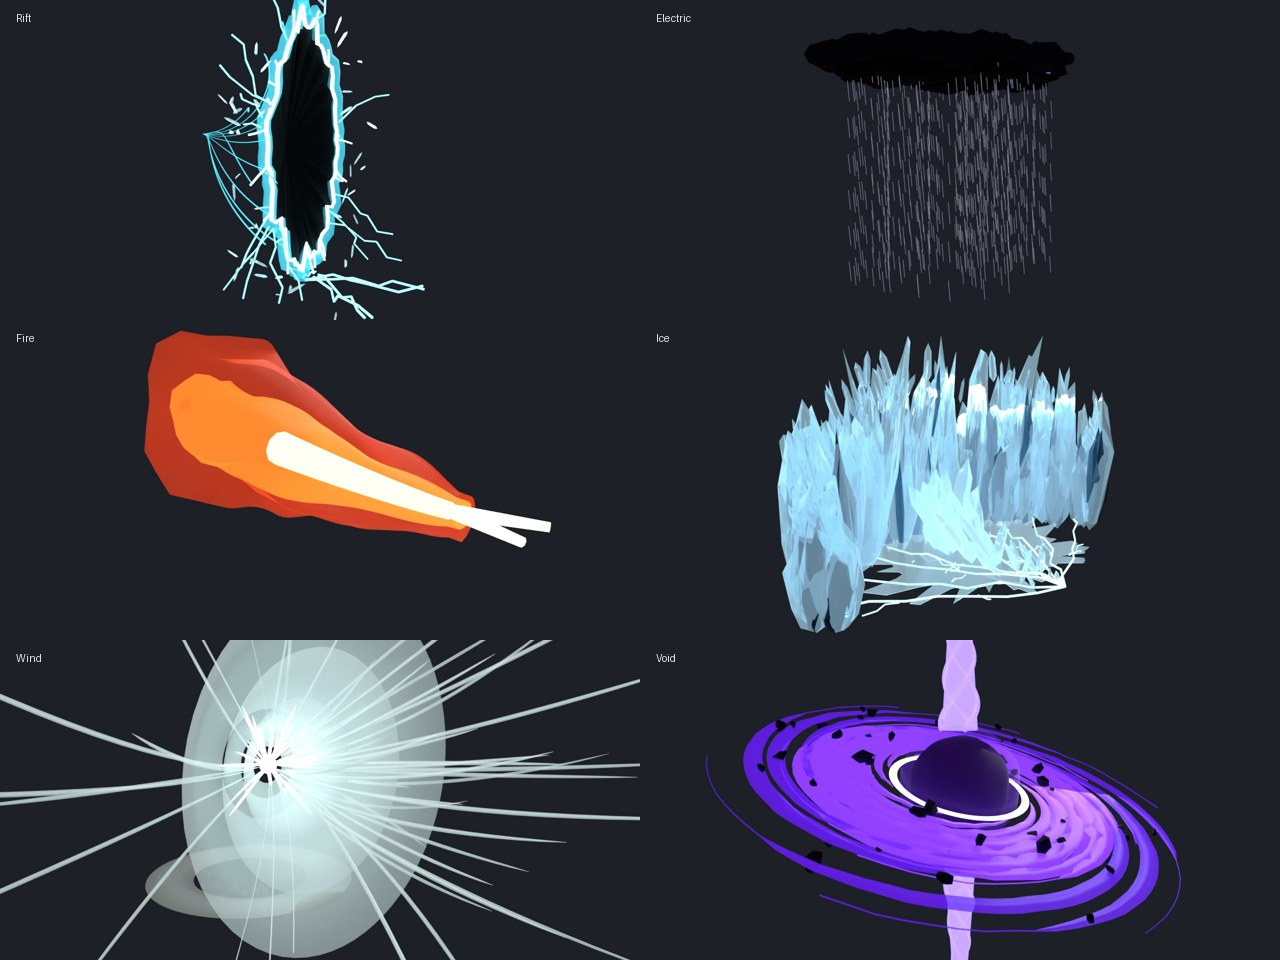
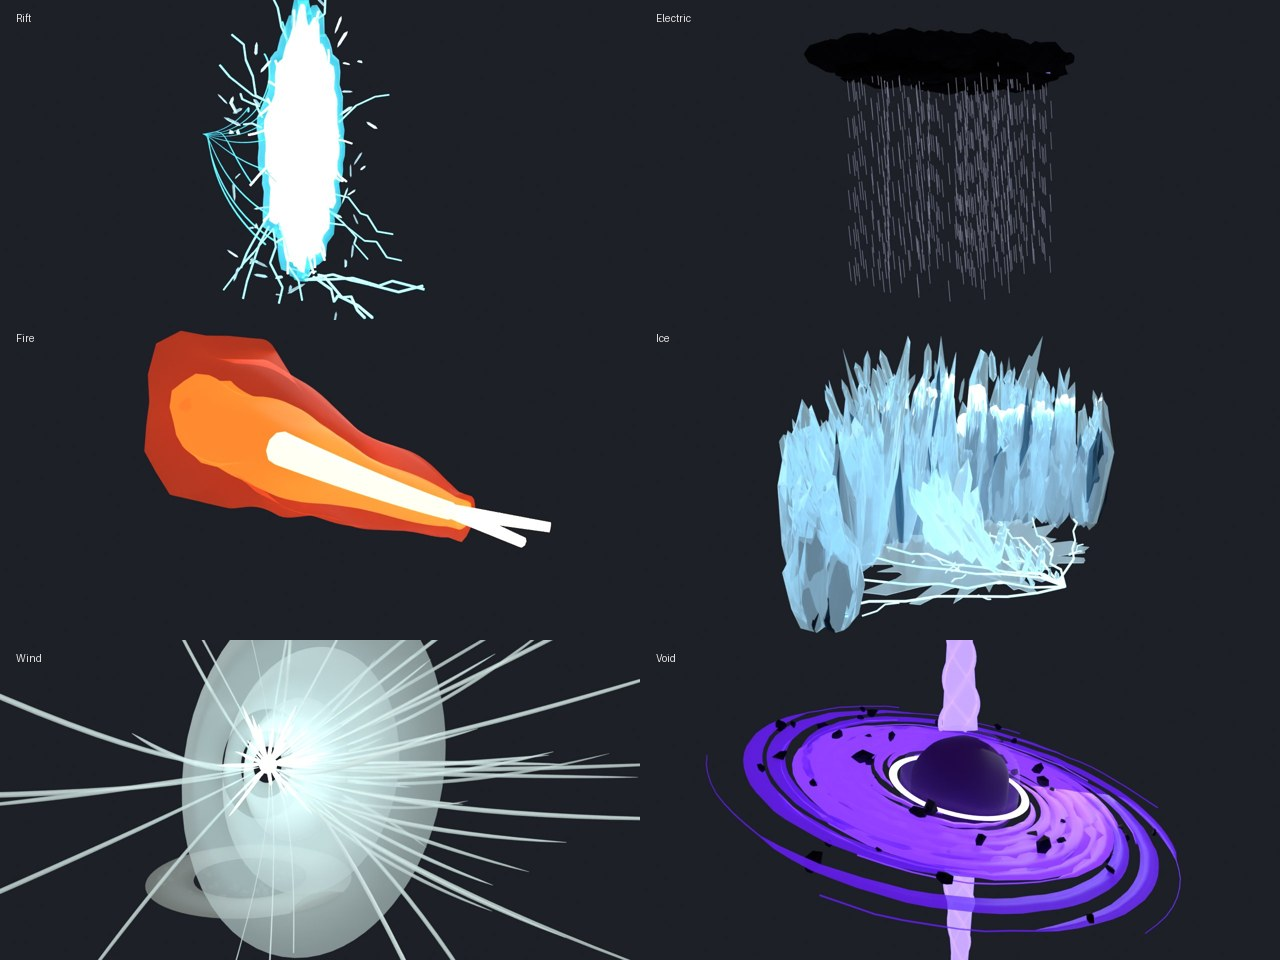
Make the inside of the Rift tear blinding white instead of black
Only the Abyss part's colour changes (now white Neon), so models already
imported need just the updated ElementUltimates module.

Claude-Session: https://claude.ai/code/session_013uHW6RqHYn7kEkLfem6E9D

Changed region(s): [[0.1875, 0.0312, 0.2812, 0.2812]]

diff --git a/tools/build_element_ultimates.py b/tools/build_element_ultimates.py
@@ -160,7 +160,7 @@ def ult_rift(col):
 
     perimeter = [rim(j) for j in range(n)]
 
-    bm = bmesh.new()  # the dark interior: a lens that bows away from the viewer, so it reads as depth
+    bm = bmesh.new()  # the blinding white interior: a lens that bows away from the viewer, so it reads as depth
     front_c = bm.verts.new(C + Y * 1.4)
     back_c = bm.verts.new(C + Y * 1.9)
     ring = [bm.verts.new(p) for p in perimeter]
@@ -168,7 +168,7 @@ def ult_rift(col):
         k = (j + 1) % n
         bm.faces.new((front_c, ring[k], ring[j]))
         bm.faces.new((back_c, ring[j], ring[k]))
-    finish(bm, "Abyss", col, material("RiftAbyss", rgb(6, 12, 18), rough=1.0), smooth=False)
+    finish(bm, "Abyss", col, material("RiftAbyss", rgb(245, 252, 255), 5), smooth=False)
 
     bm = bmesh.new()  # a thin, white-hot ragged edge with small splits running off it
     sweep(bm, perimeter, [square(0.07)] * n, closed=True)

diff --git a/ElementBeams/Ultimates/README.md b/ElementBeams/Ultimates/README.md
@@ -11,7 +11,7 @@ fire, smoke, mist and sparks on top, which Blender can't preview.*
 
 | Element | Ultimate | What happens | Length |
 |---|---|---|---|
-| **Rift** | Rips open a rift | Cracks splinter through the air, then a ragged slit rips wide into a dark tear with a white-hot edge. Filaments spiral away into its depth, splinters of space drift round it, cyan motes and dark wisps leak out. It snaps shut with a flash | 6.5 s |
+| **Rift** | Rips open a rift | Cracks splinter through the air, then a ragged slit rips wide into a blinding white tear with a white-hot edge. Filaments spiral away into its depth, splinters of space drift round it, cyan motes and dark wisps leak out. It snaps shut with a flash | 6.5 s |
 | **Electric** | Thunderstorm | A heavy black cloud boils up overhead, churning with smoke, and rain pours. Lightning strikes at random in an irregular rhythm, sometimes two at once. Every bolt is generated fresh, with branches, a double flicker, sparks, dust and a flash lighting the ground and cloud | 7.5 s |
 | **Fire** | Flames from the hands | Particle fire pours from both hands into a roaring stream, with a white-hot core, heat-shimmer shells, embers and smoke rolling off the end. A flickering orange light washes over everything | 6.2 s |
 | **Ice** | Stomp → ice wall | The stomp throws up ice chips and mist, frost and cracks race across the ground, spikes punch up along the path, then an arc of craggy, splintered ice slabs bursts up section by section with a rumble. It shatters in the same order | 7.4 s |
